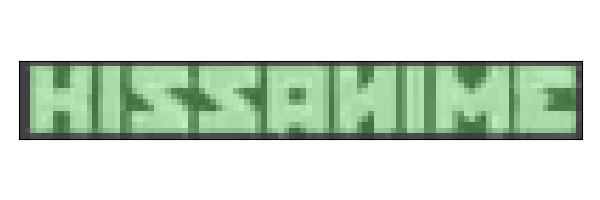
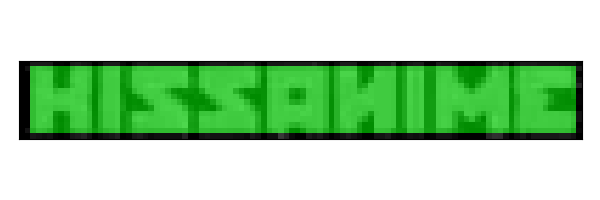
Resave image

diff --git a/README.md b/README.md
@@ -267,8 +267,15 @@ the blurry edges that shouldn't be overcropped).
 ```py
 green = to_rgb(np.copy(med_img))
 green[bb[0]:bb[1]+1, bb[2]:bb[3]+1] = [0, 200, 0]
-plt.imshow(green, alpha=0.5)
 show_image(med_img, bw=True, alpha=0.5)
+plt.imshow(med_img, cmap=plt.get_cmap('gray'))
+plt.imshow(green, alpha=0.7
+# fig = plt.figure(figsize=(6,2))
+# plt.xticks([]), plt.yticks([])
+# plt.tight_layout()
+# plt.imshow(med_img, cmap=plt.get_cmap('gray')))
+# plt.imshow(green, alpha=0.7)
+# fig.savefig('../img/doc/green_bbox.png')
 ```
 
 ![](img/doc/green_bbox.png)
